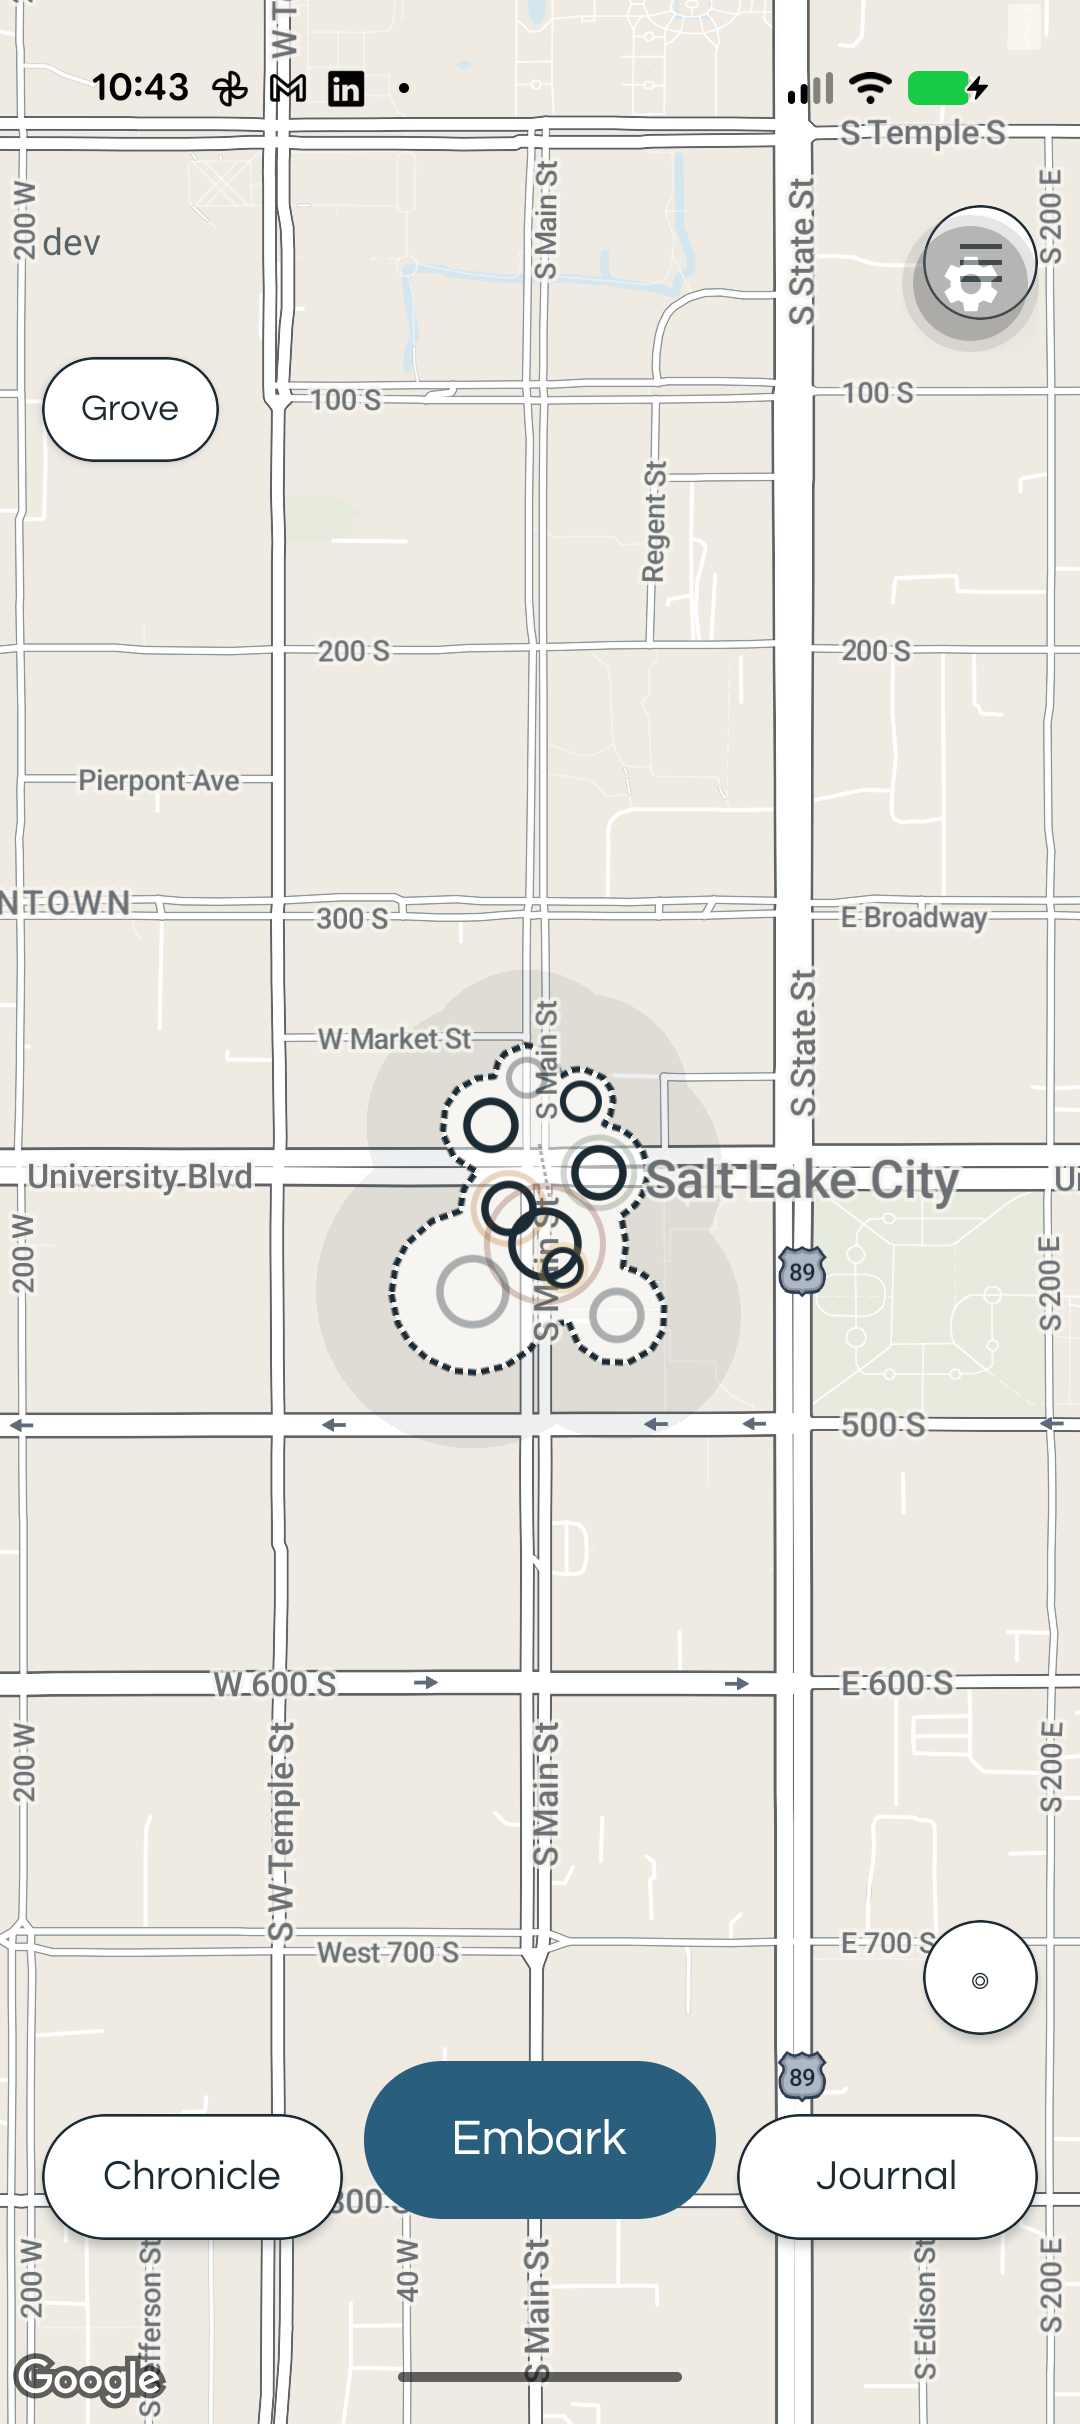
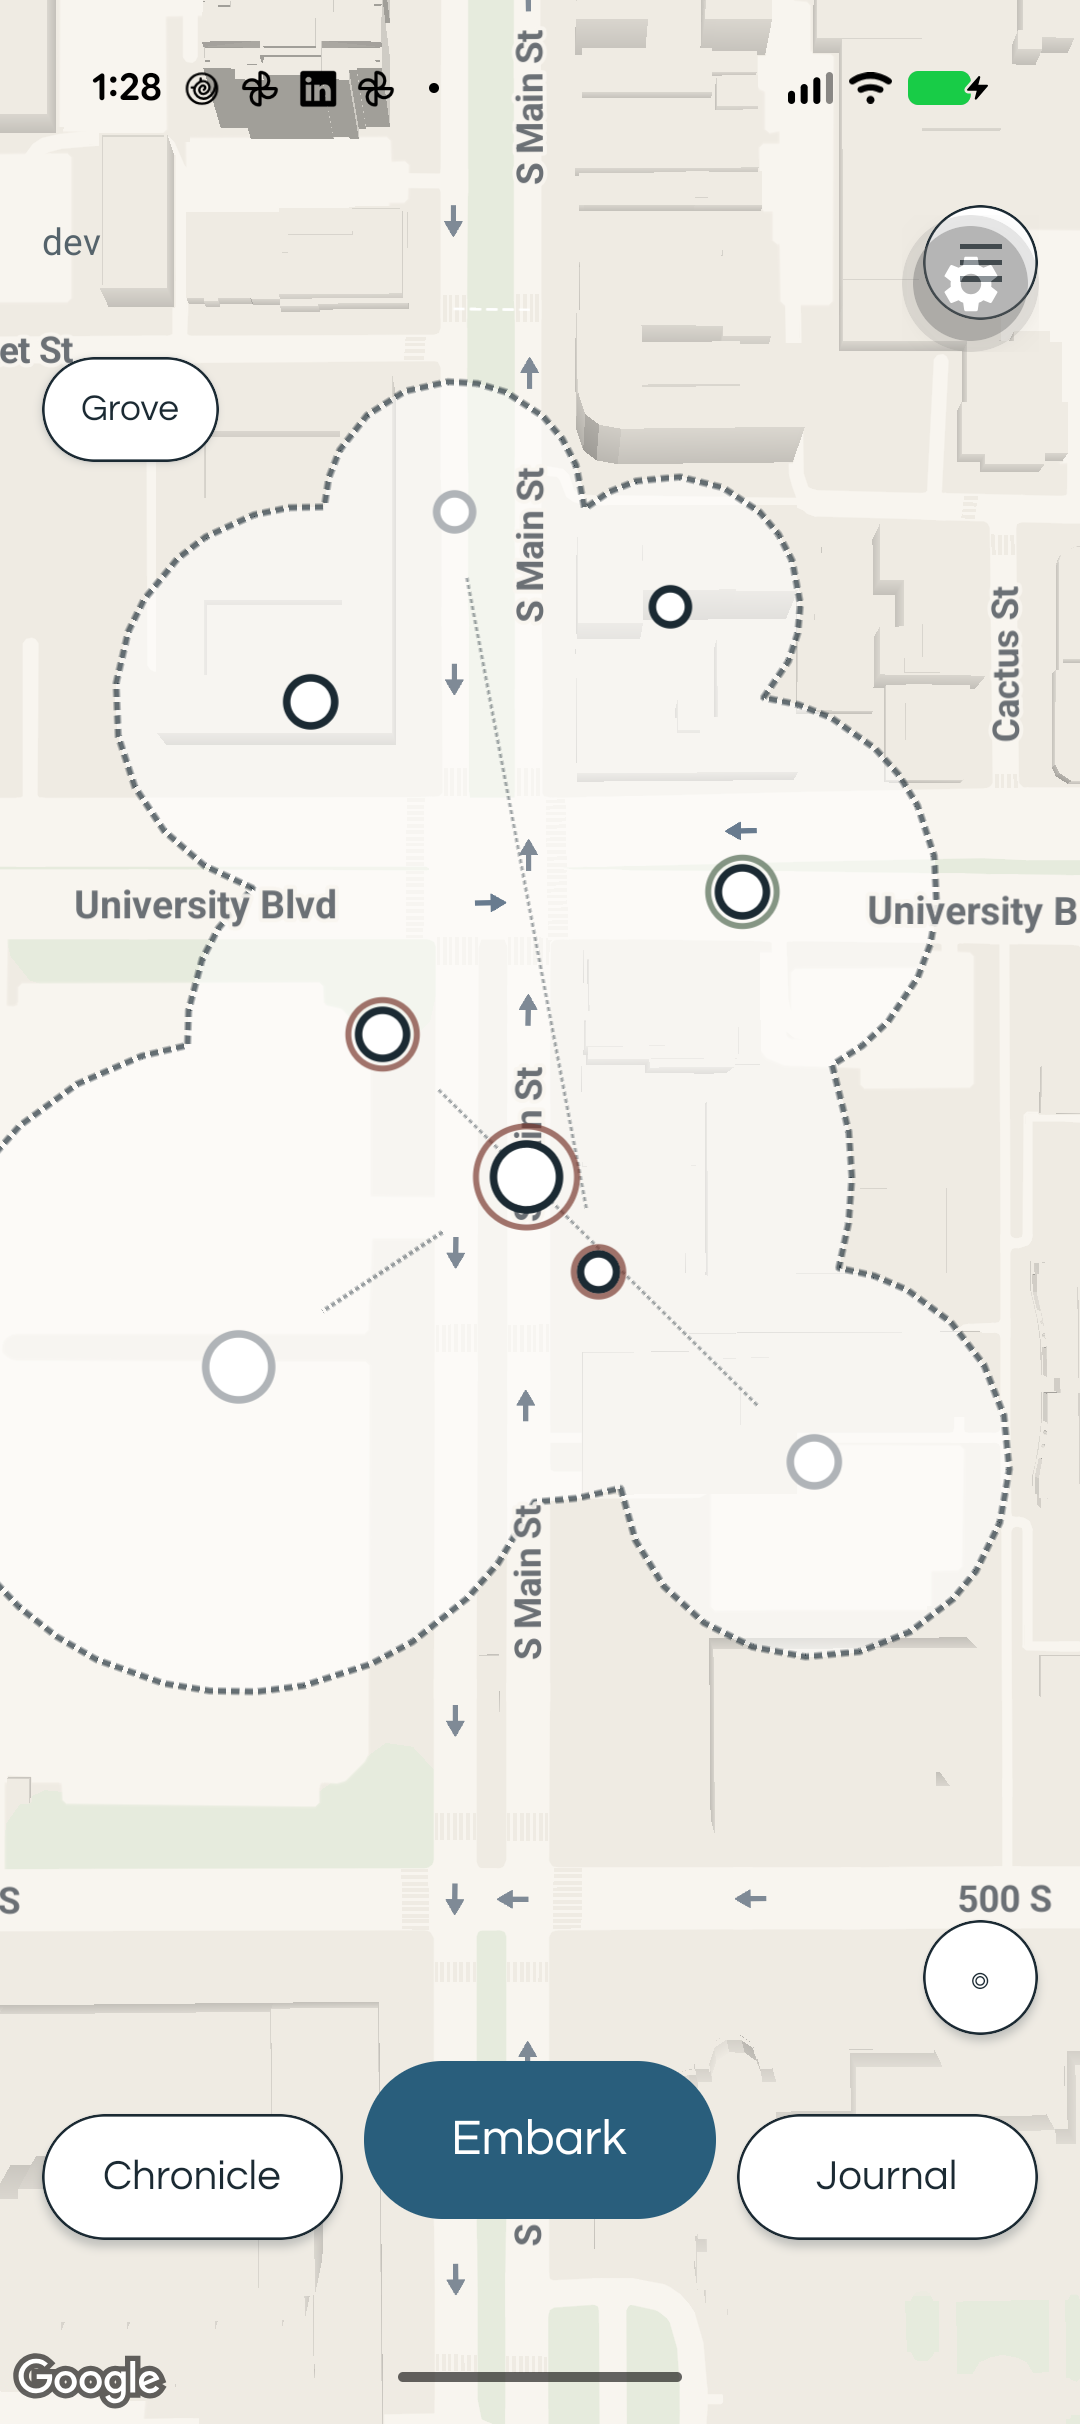
Record M5b design-update screenshots and D2 gfxinfo pans.

diff --git a/docs/briefs/M5b-report.md b/docs/briefs/M5b-report.md
@@ -78,9 +78,21 @@ Jordan’s Pixel look + ADR 0006 / standards §4.3, §5.1–§5.3. Brief: `docs/
 
 **D1.** `MAX_PULSING_ON_SCREEN = 40`: above that, every pulsing marker uses the still (Reduce Motion) frame until the count drops. All-or-nothing.
 
-**D2. gfxinfo** — **not run yet.** The Pixel sat on the PIN lock screen for the screenshot pass; unlock and a short follow-up will collect the three 10s pans (demo, stress capped/zoomed out, stress ~30 markers).
+**D2. gfxinfo** (Pixel 11, `dumpsys gfxinfo org.replaceplace.intell`, 10 s pan each; Stay awake on):
 
-**Screenshots** — `day.png` / `night.png` below are still the **pre–design-update** set (with halo). Fresh design-update shots need the unlocked device.
+| Scene | Frames | Janky | 50th | 90th | 95th | 99th |
+|---|---:|---:|---:|---:|---:|---:|
+| Demo grove | 521 | 4 (**0.77%**) | 5 ms | 8 ms | 12 ms | 14 ms |
+| Stress zoomed out (cap on, 300 pulsing → still) | 621 | 4 (**0.64%**) | 5 ms | 7 ms | 9 ms | 13 ms |
+| Stress ~40 markers (uncapped; brief asked ~30) | 542 | 4 (**0.74%**) | 5 ms | 6 ms | 8 ms | 11 ms |
+
+**Screenshots** (design update) under `docs/briefs/M5b-screens/`:
+
+| File | What it shows |
+|---|---|
+| `day.png` | Demo grove, day style: solid white centers, brick pulses, dashed outline (no halo) |
+| `night.png` | Same grove, Follow my phone + night: solid `#163447` centers, white rings, brick pulse |
+| `reduce-motion.png` | Still brick / changed rings at start size; outline steady (no pulse animation) |
 
 **D3. Checks after these edits**
 
